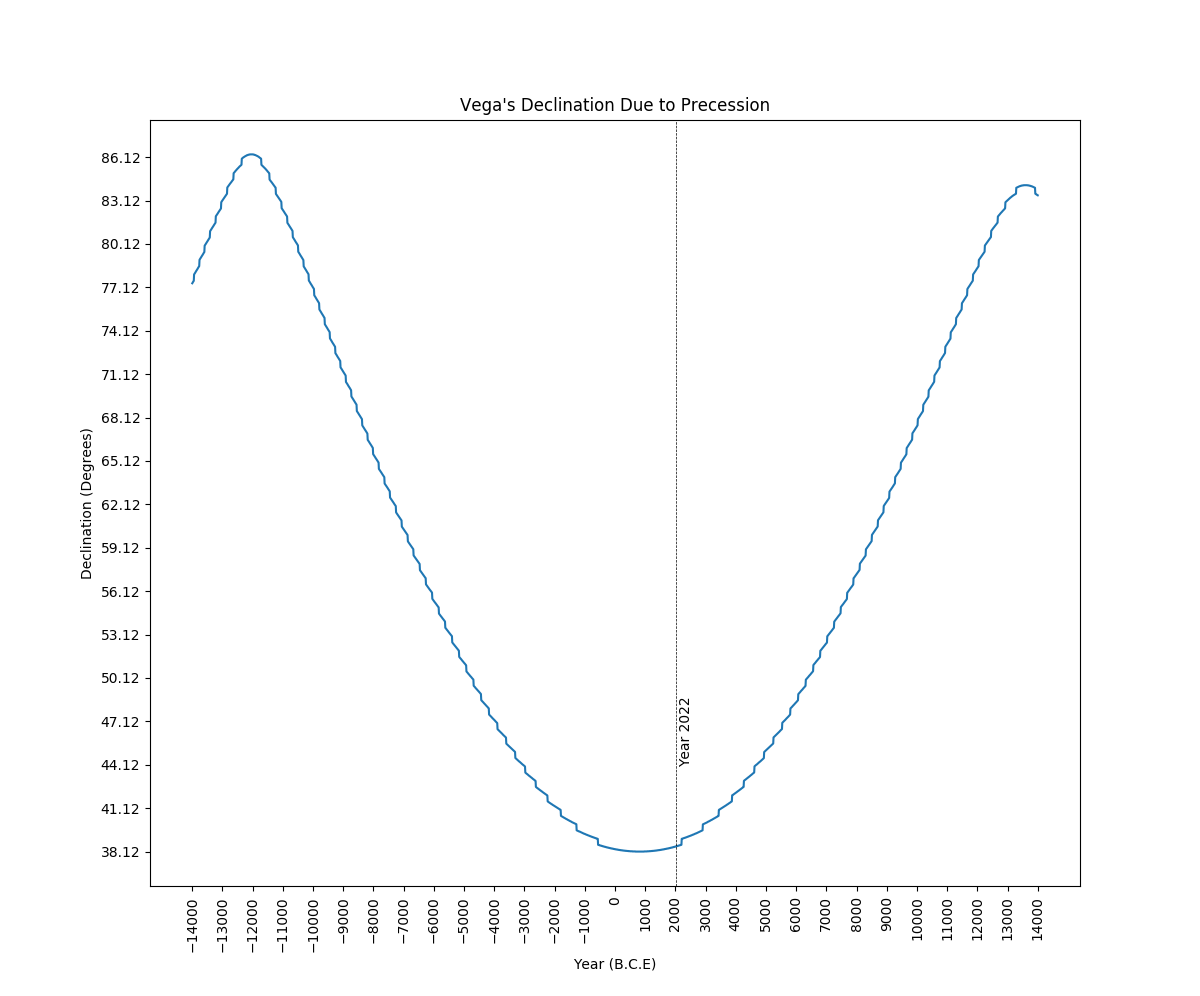
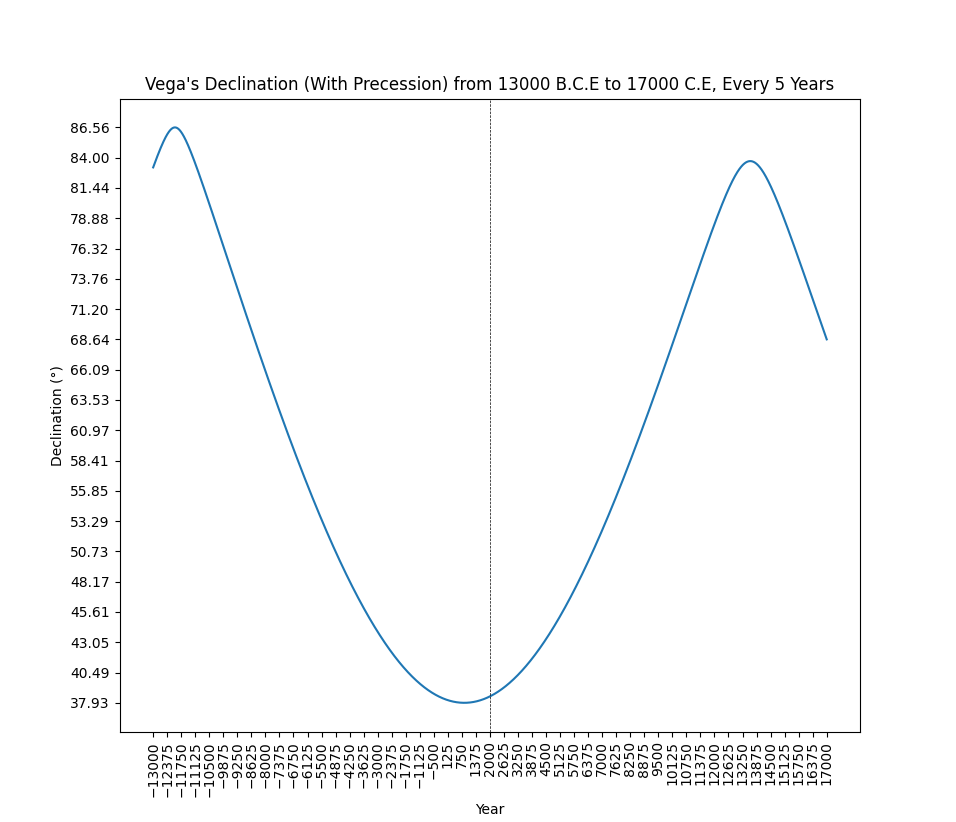
replace vondrak with star_chart_spherical_projection

diff --git a/page_21_astrolabe/test_precession.py b/page_21_astrolabe/test_precession.py
@@ -1,133 +1,13 @@
-# git clone https://github.com/digitalvapor/vondrak
-# python3 vondrak/setup.py install
-# python2.7 -m pip install ephem
-# python2.7 -m pip install basemap
-# Python Implementation of "New precession expressions, valid for long time intervals" (J. Vondrak, N. Capitaine, and P. Wallace) (2011)
-# python2.7 test_prcession.py
-
-#### 
-# TO BE REMOVED
-####
-
-import math
-import numpy as np
-import vondrak as v
-import matplotlib.pyplot as plt
-import ephem
-from math import cos, sin
-from ephem import hours as hrs
-from ephem import degrees as deg
-
-def periodicity():
-	ecl_p_matrix_list_x = []
-	ecl_p_matrix_list_y = []
-	ecl_p_matrix_list_z = []
-	equ_p_matrix_list_x = []
-	equ_p_matrix_list_y = []
-	equ_p_matrix_list_z = []
-	year = np.arange(-200001.0, 200000.0, 100)
-	for y in year:
-		p_ecl = v.ltp_pecl(y)
-		p_equ = v.ltp_pequ(y)
-		ecl_p_matrix_list_x.append(p_ecl[0])
-		ecl_p_matrix_list_y.append(p_ecl[1])
-		ecl_p_matrix_list_z.append(p_ecl[2])
-		equ_p_matrix_list_x.append(p_equ[0])
-		equ_p_matrix_list_y.append(p_equ[1])
-		equ_p_matrix_list_z.append(p_equ[2])
-
-	fig = plt.figure(figsize=(12,12), dpi=100)
-	plt.title("Ecliptic Components of Matrix over 400K Years")
-	plt.plot(year, ecl_p_matrix_list_x)
-	plt.plot(year, ecl_p_matrix_list_y)
-	plt.plot(year, ecl_p_matrix_list_z)
-	plt.xticks(rotation=90)
-	plt.show()
-	fig = plt.figure(figsize=(12,12), dpi=100)
-	plt.title("Equatorial Components of Matrix over 400K Years")
-	plt.plot(year, equ_p_matrix_list_x)
-	plt.plot(year, equ_p_matrix_list_y)
-	plt.plot(year, equ_p_matrix_list_z)
-	plt.xticks(rotation=90)
-	plt.show()
-
-
-def position_matrix(ra=None, dec=None, x=None, y=None, z=None):
-	if(ra == None or dec == None):
-		ra  = 0.0
-		dec = 0.0
-	if(x==None or y ==None or z==None):
-		x = cos(dec) * cos(ra)
-		y = cos(dec) * sin(ra)
-		z = sin(dec)
-	return np.array([[x], [y], [z]])
-
-def compute_star(year, star_name):
-	import ephem
-	given_star = ephem.star(star_name)
-	given_star.compute(str(year),epoch='2000')
-	ra = given_star.a_ra
-	dec = given_star.a_dec
-	return position_matrix(ra=ra,dec=dec)
-   
-def testingStar(star_name):
-	p0 = compute_star(2000, star_name)
-	(ra, dec) = v.ra_dec(p0)
-	print("{0} in 2000".format(star_name))
-	print('RA: {}'.format(hrs(ra)))
-	print('DEC: {}'.format(deg(dec)))
-	print('cartesian position of {0} in the year=2000, epoch=2000:'.format(star_name))
-	x = p0[0][0]
-	y = p0[1][0]
-	z = p0[2][0]
-	print('{}\nthis vector has length {}'.format(
-		  (x,y,z),math.sqrt(x*x + y*y + z*z)))
-
-	print("\nComputing:")
-	p0 = compute_star(2000, star_name)
-	print('The position of {0} at J2000 is \n{1}'.format(star_name, p0))
-	epj = 15000
-	P = v.ltp_pbmat(epj) # Precession matrix, GCRS
-	p1 = compute_star(epj, star_name)
-	p1 = v.pdp(P, p1)
-	print('The new position of {0} in {1} years is \n{2}'.format(star_name, epj, p1))
-
-	print("\n")
-	(ra, dec) = v.ra_dec(p0)
-	print('In hours of right ascension and degrees of declination')
-	print('The position of {0} at J2000 is'.format(star_name))
-	print(str(hrs(ra)),str(deg(dec)))
-	print('The new position of {0} at {1} years is'.format(star_name, epj))
-	(ra1, dec1) = v.ra_dec(p1)
-	print(str(hrs(ra1)),str(deg(dec1)))
-
-def graphOverTime(star_name):
-	range_year = 14000 # full cycle = 26,000 
-	years = np.arange(-range_year, range_year+1, 10)
-	dec_list = []
-	for year in years:
-		P = v.ltp_pbmat(year) # Precession matrix for the given year
-		p_1 = compute_star(year, star_name) # compute star's position matrix for given year
-		p_1 = v.pdp(P, p_1) # apply precession matrix for given year
-		(ra1, dec1) = v.ra_dec(p_1)
-		as_deg = float(".".join(str(deg(dec1)).split(":")[:2]))
-		dec_list.append(as_deg)
-	
-	fig = plt.figure(figsize=(12,12), dpi=100)
-	ax = fig.subplots()
-	plt.title("{0}'s Declination Due to Precession".format(star_name))
-	plt.plot(years, dec_list)
-	plt.axvline(2022, linewidth=0.5, color="black", linestyle="dashed")
-	plt.text(x=2022+100, y=min(dec_list)+10, s="Year 2022", fontsize=10, rotation=90) # add label on figure
-	plt.xlabel("Year (B.C.E)")
-	plt.ylabel("Declination (Degrees)")
-	ax.set_xticks(np.arange(years[0], years[-1]+1, 1000))
-	ax.set_yticks(np.arange(min(dec_list), max(dec_list)+1, 3))
-	plt.xticks(rotation=90)
-	plt.show()
-	fig.savefig('test_precession_vondrak_example.png', dpi=fig.dpi)
+# python test_precession.py
+import star_chart_spherical_projection
 
 if __name__ == '__main__':
-	star_name = "Vega"
-	testingStar(star_name)
-	graphOverTime(star_name)
+	star_chart_spherical_projection.plotStarPositionOverTime(builtInStarName="Vega",
+							newStar=None,
+							startYearSince2000=-15000,
+							endYearSince2000=15000,
+							isPrecessionIncluded=True,
+							incrementYear=5,
+							DecOrRA="D",
+							showYearMarker=True,
+							save_plot_name="test_precession_vondrak_example.png")

diff --git a/README.md b/README.md
@@ -72,7 +72,7 @@ Reuse of this image is governed by [NASA's image use policy](https://www.nasa.go
 
 ### [Page X: Astrolabe](https://github.com/cyschneck/History-Survival-Guide/tree/master/page_21_astrolabe)
 
-Currently uses: Python 3.12 (`pip install requirements.txt`)
+Currently uses: Python 3.12 (`pip install -r requirements.txt`)
 
 **Constructing a Base Plate**
 
@@ -90,9 +90,19 @@ inner_tropic_radius = base_plate_radius / (tan(45° - (obliquity / 2))
 ![change_in_obliquity_radius+png](https://github.com/cyschneck/History-Survival-Guide/blob/master/page_21_astrolabe/generate_base_plate_outputs/base_plate_change_due_to_obliquity.png)
 ![earth_base_plate+png](https://github.com/cyschneck/History-Survival-Guide/blob/master/page_21_astrolabe/generate_base_plate_outputs/base_plate_for_earth_at_23.4_degrees.png)
 
-Currently, [vondrak plugin](https://github.com/digitalvapor/vondrak) can only run on python2.7 (using Python 2.7.12)
+Currently, uses [star-chart-spherical-projection package](https://github.com/cyschneck/Star-Chart-Spherical-Projection)
 
-```python2.7 test_precession.py```
+```
+import star_chart_spherical_projection
+
+star_chart_spherical_projection.plotStarPositionOverTime(builtInStarName="Vega",
+							newStar=None,
+							startYearSince2000=-15000,
+							endYearSince2000=15000,
+							isPrecessionIncluded=True,
+							incrementYear=5,
+							DecOrRA="D")
+```
 ![test_prcession_star+png](https://github.com/cyschneck/History-Survival-Guide/blob/master/page_21_astrolabe/test_precession_vondrak_example.png)
 
 **Constructing Eccentric Calendar for Back Plate**
